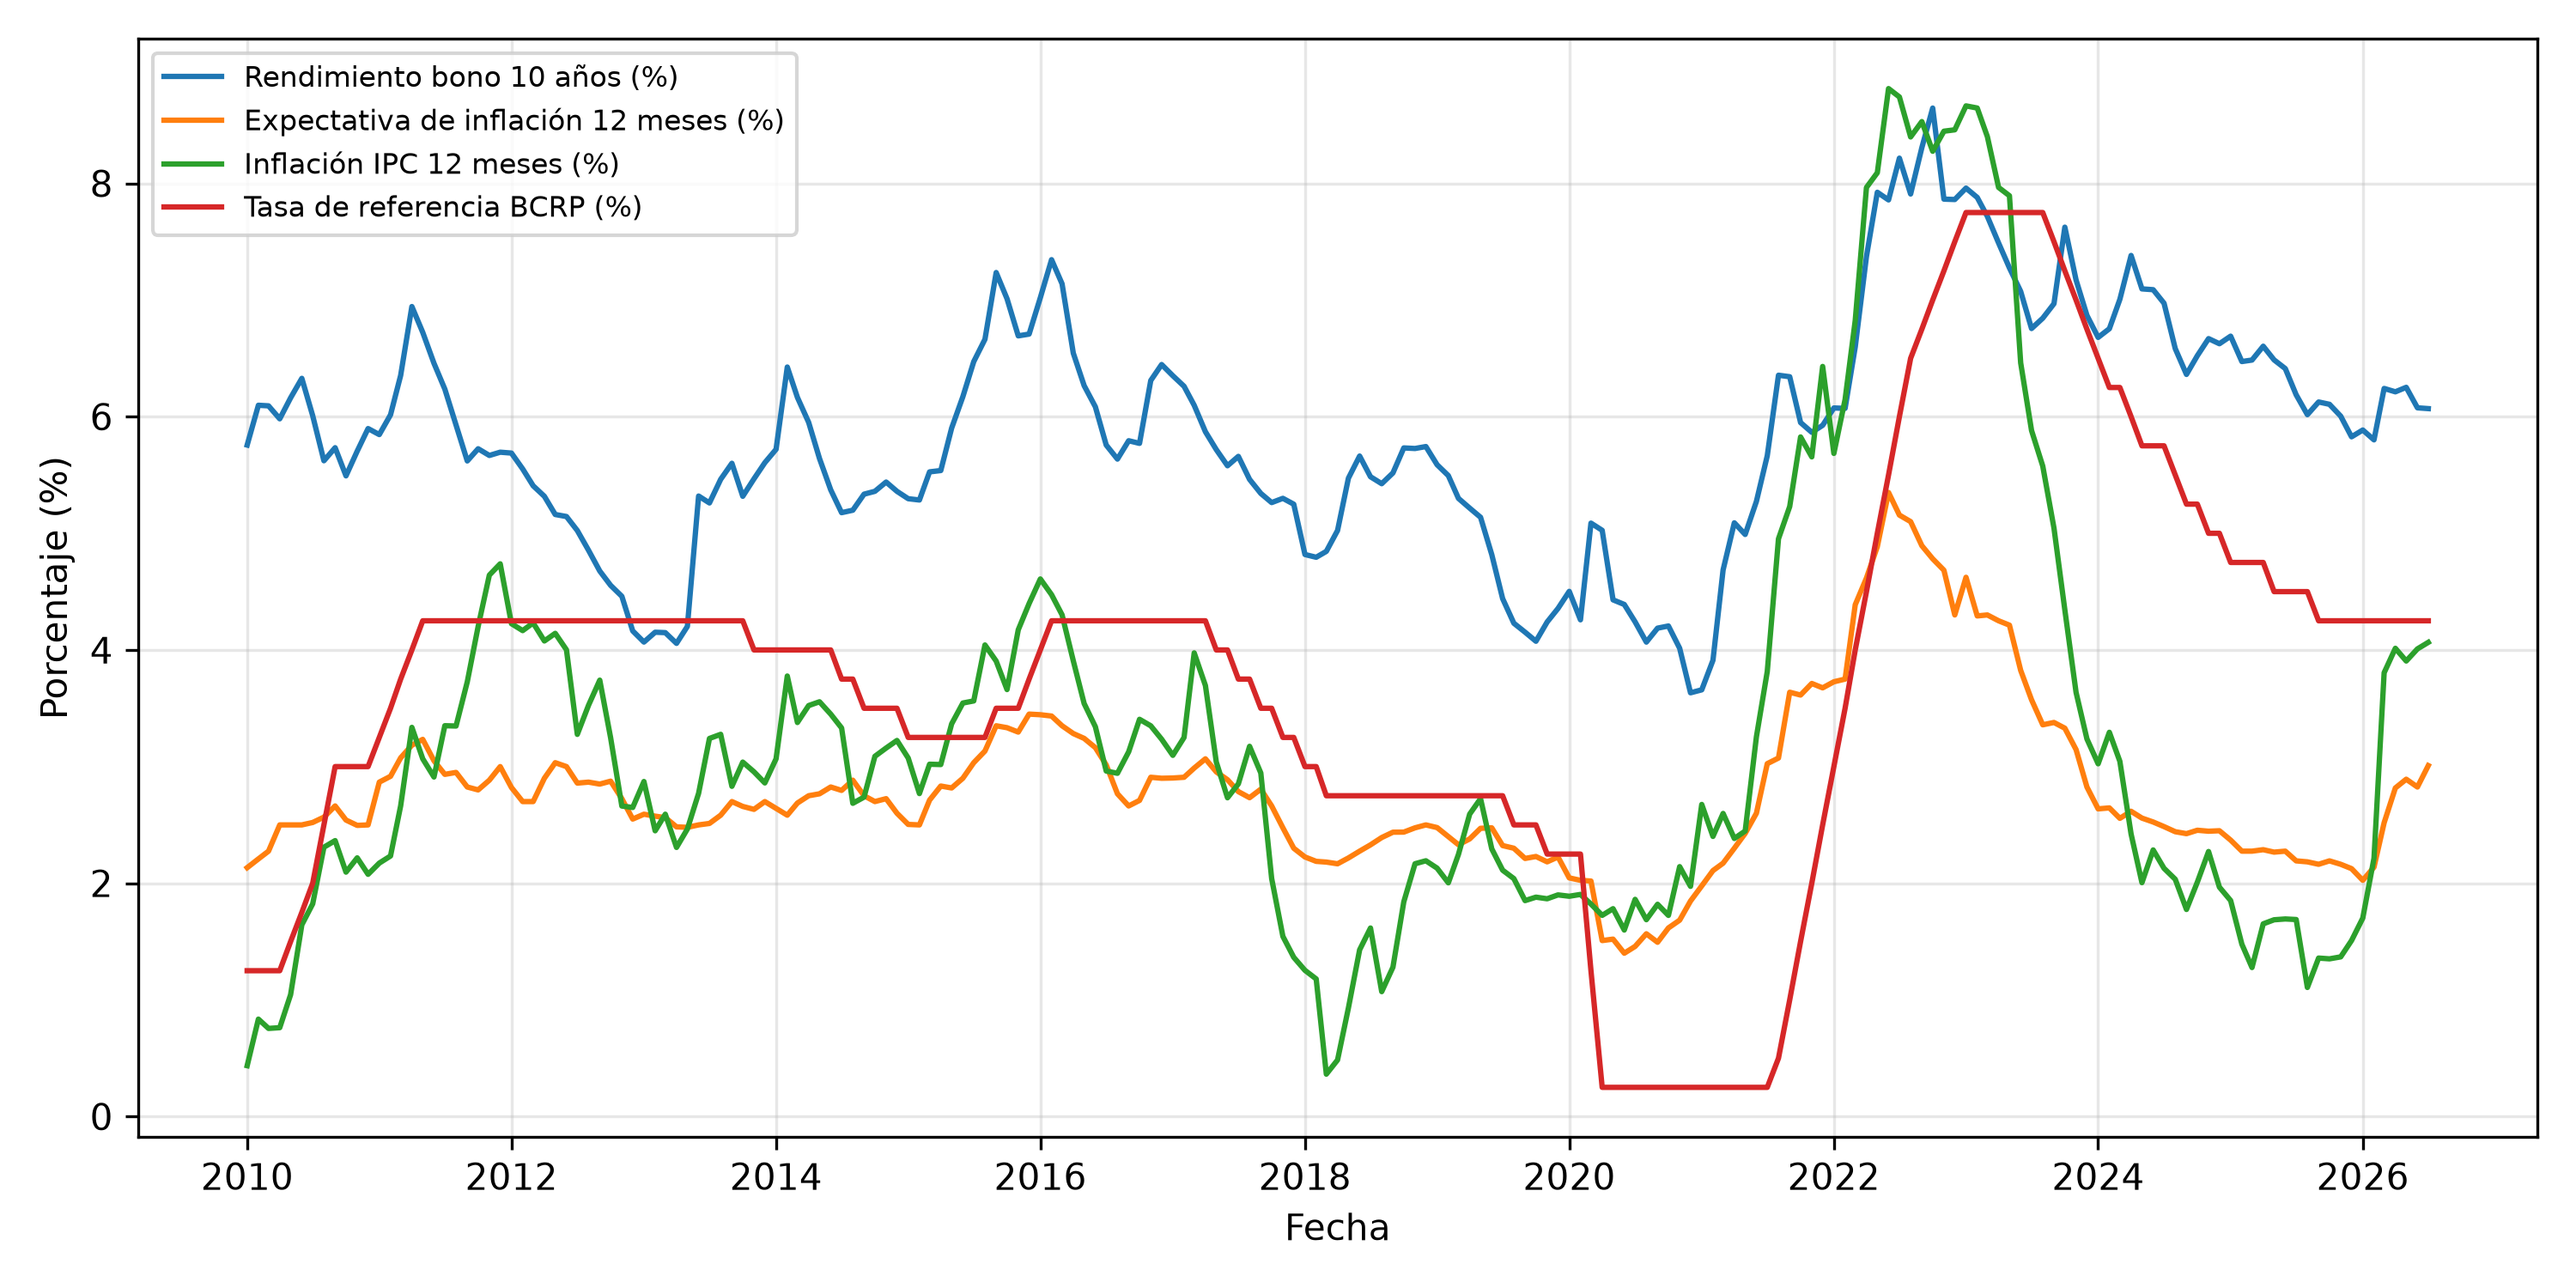
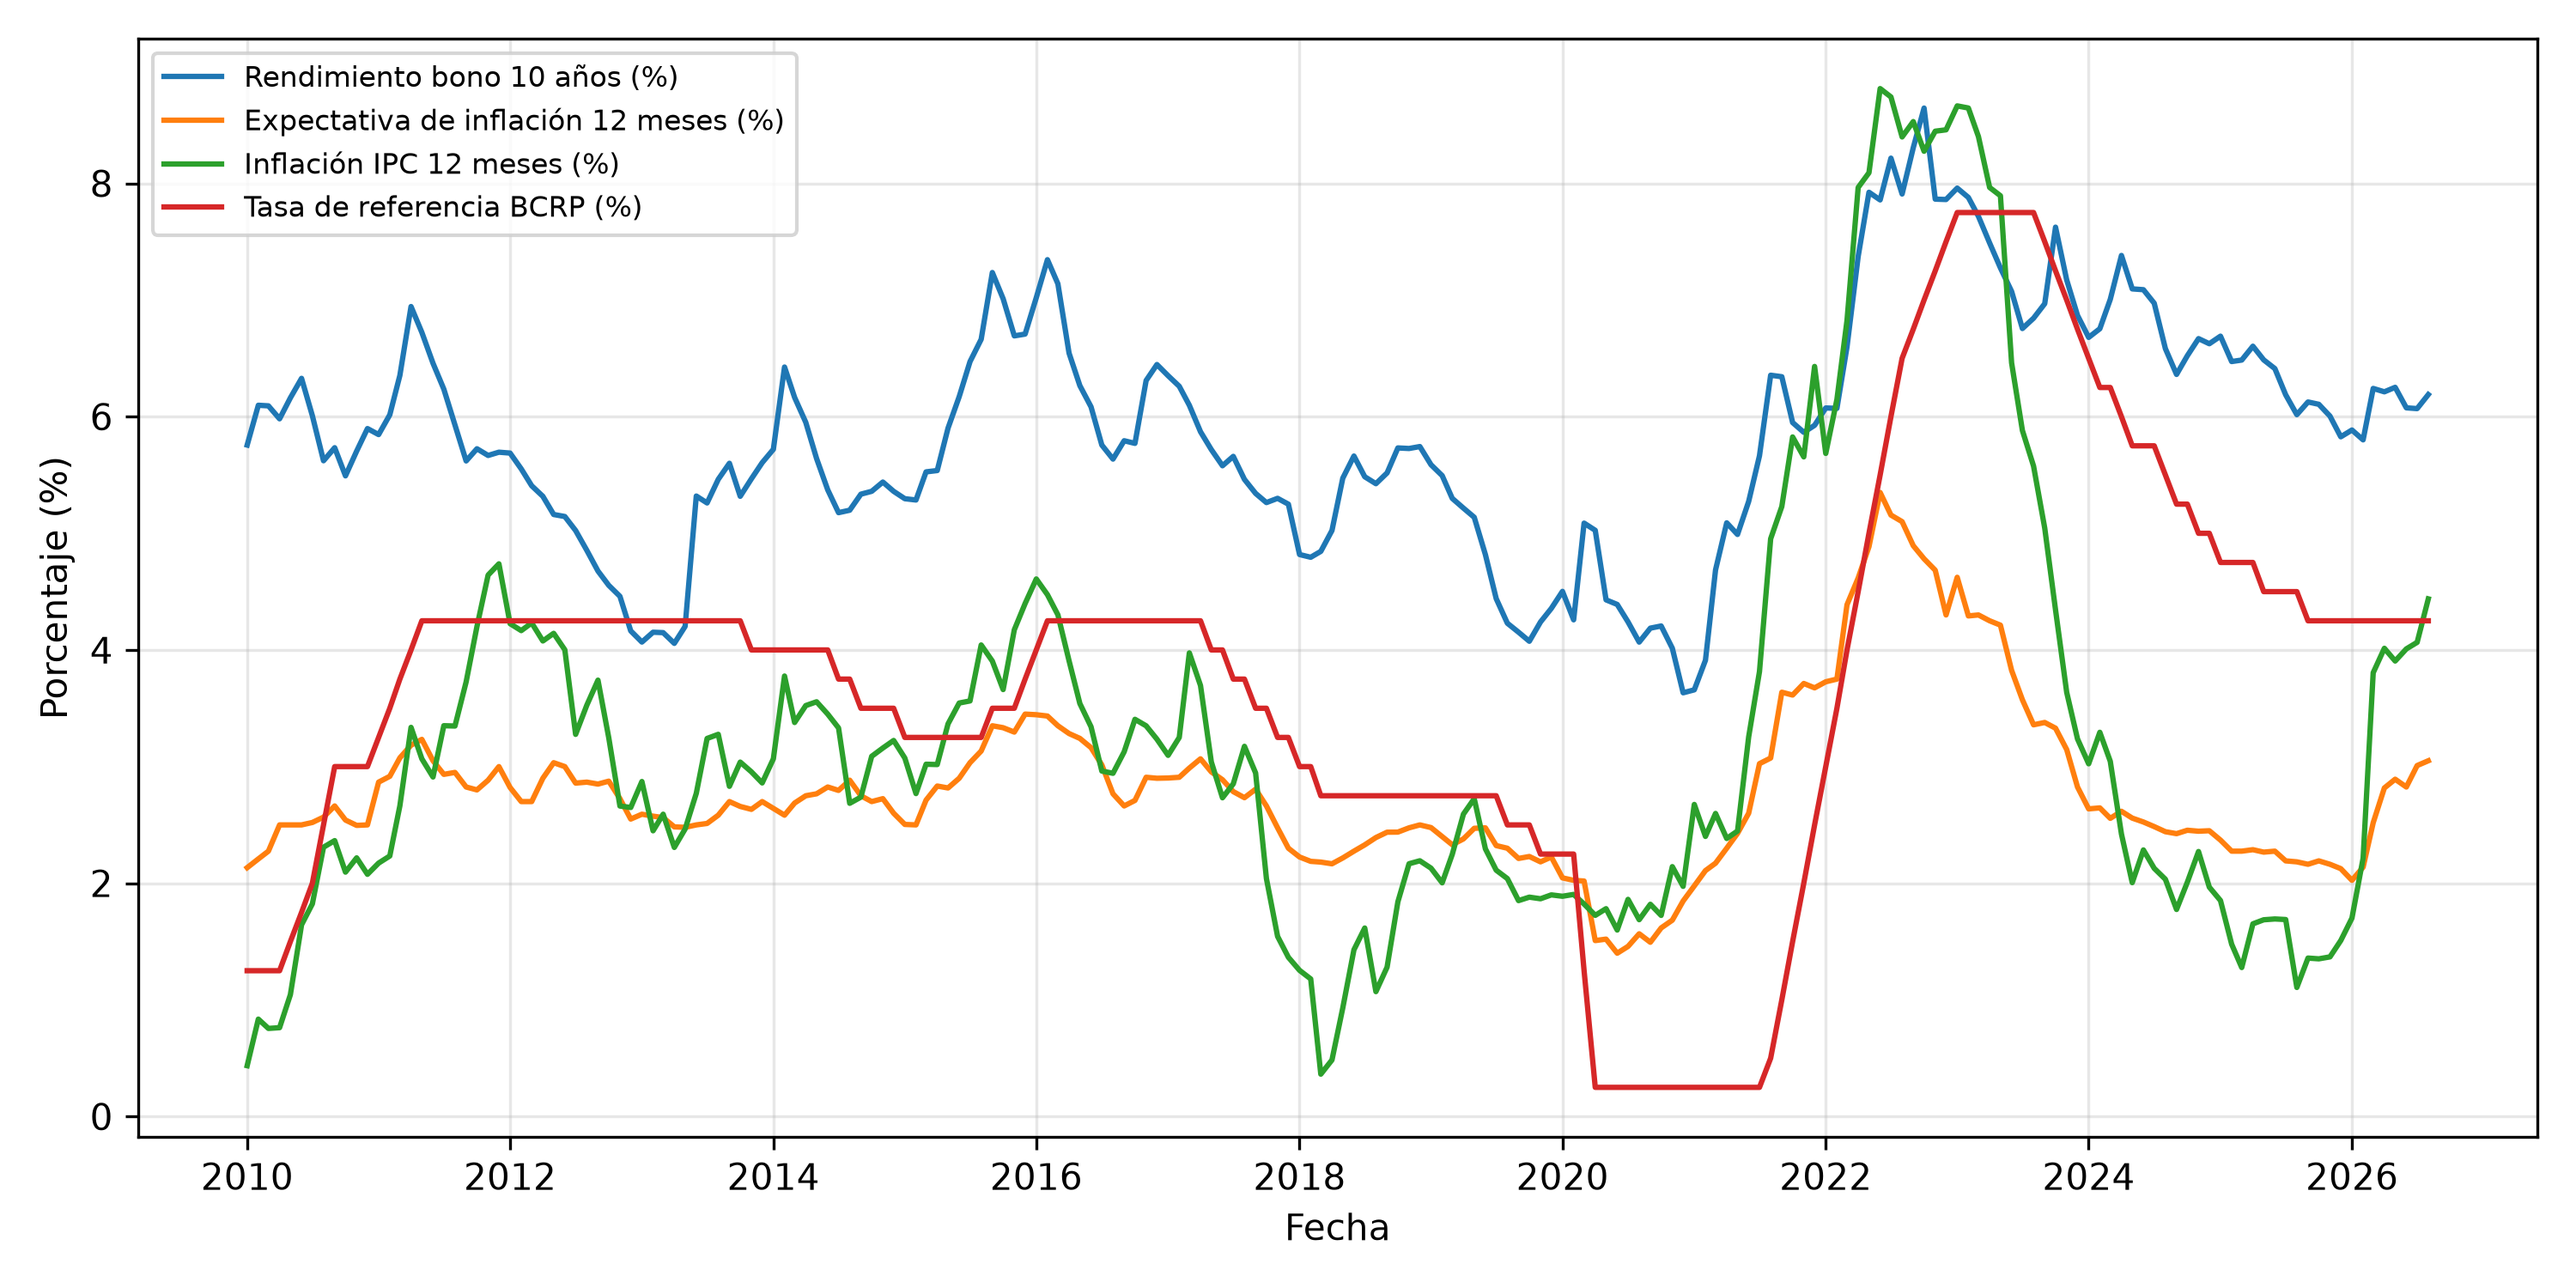
Amplía el corte a agosto de 2026 (800 observaciones)

diff --git a/codigo/01_extraccion_api.py b/codigo/01_extraccion_api.py
@@ -1,7 +1,7 @@
 # Nombre: Andrea Nicolle Sinche De La Cruz
 # Código de matrícula: 2024200529I
 # Tema 40: Bonos nominales frente a bonos indexados (VAC): expectativas de inflación implícitas
-# Fecha de extracción: 24/09/2026
+# Fecha de extracción: 28/09/2026
 
 """
 01_extraccion_api.py
@@ -21,7 +21,7 @@ from pathlib import Path
 
 # ------------- PARÁMETROS CONGELADOS (si se cambian, actualizar el README) -------------
 FECHA_INICIO = "2010-1"   # enero de 2010
-FECHA_CORTE = "2026-7"    # julio de 2026: último mes publicado para las 4 series al 24/09/2026
+FECHA_CORTE = "2026-8"    # agosto de 2026: último mes publicado para las 4 series al 28/09/2026
 CODIGO_MATRICULA = "2024200529I"
 
 # Variables del estudio: nombre de la variable -> código de la serie en BCRPData

diff --git a/codigo/03_limpieza_datos.py b/codigo/03_limpieza_datos.py
@@ -1,7 +1,7 @@
 # Nombre: Andrea Nicolle Sinche De La Cruz
 # Código de matrícula: 2024200529I
 # Tema 40: Bonos nominales frente a bonos indexados (VAC): expectativas de inflación implícitas
-# Fecha de extracción: 24/09/2026
+# Fecha de extracción: 28/09/2026
 
 """
 03_limpieza_datos.py

diff --git a/codigo/04_analisis.py b/codigo/04_analisis.py
@@ -1,7 +1,7 @@
 # Nombre: Andrea Nicolle Sinche De La Cruz
 # Código de matrícula: 2024200529I
 # Tema 40: Bonos nominales frente a bonos indexados (VAC): expectativas de inflación implícitas
-# Fecha de extracción: 24/09/2026
+# Fecha de extracción: 28/09/2026
 
 """
 04_analisis.py

diff --git a/README.md b/README.md
@@ -7,7 +7,7 @@
 
 **Tema 40:** Bonos nominales frente a bonos indexados (VAC): expectativas de inflación implícitas.
 
-**Objetivo empírico:** medir cuánto de la inflación esperada se incorpora en el rendimiento de los bonos soberanos nominales en soles (efecto Fisher), Perú, enero 2010 – julio 2026.
+**Objetivo empírico:** medir cuánto de la inflación esperada se incorpora en el rendimiento de los bonos soberanos nominales en soles (efecto Fisher), Perú, enero 2010 – agosto 2026.
 
 ---
 
@@ -30,9 +30,9 @@ Los bonos VAC no se usaron por falta de datos y por el bloqueo de la fuente alte
 ## 2. Parámetros congelados
 
 - `FECHA_INICIO = "2010-1"` (enero de 2010)
-- `FECHA_CORTE = "2026-7"` (julio de 2026)
-- Fecha y hora de la extracción original: 24/09/2026, 01:33–01:34 (ver `log_ejecucion.txt`)
-- Observaciones: **199 meses** por variable, sin datos faltantes.
+- `FECHA_CORTE = "2026-8"` (agosto de 2026)
+- Extracción vigente: 28/09/2026, 20:17 (ver `log_ejecucion.txt`). La primera versión (24/09/2026) llegaba a julio de 2026; el 28/09/2026 se amplió el corte a agosto de 2026 para alcanzar el mínimo de 800 observaciones. El log conserva también una ejecución de prueba de ese día (20:15, periodo 2009-1 a 2026-7) que no se usó.
+- Observaciones: **200 meses × 4 variables = 800 observaciones**, sin datos faltantes.
 
 ## 3. Estructura de la carpeta
 
@@ -85,7 +85,7 @@ py codigo/04_analisis.py
 Hash SHA-256 de `datos_procesados/datos_procesados_2024200529I.csv` (entregado):
 
 ```
[2 lines of base64/hex data omitted]
 ```
 
 Este hash corresponde al archivo entregado. BCRPData puede revisar sus series después de la fecha de corte; si una reejecución produce otro hash, la fecha y hora de la extracción original constan en `log_ejecucion.txt`.

diff --git a/diccionario_variables.md b/diccionario_variables.md
@@ -1,10 +1,10 @@
 # Diccionario de variables
 
-Archivo: `datos_procesados/datos_procesados_2024200529I.csv` — 199 filas (enero 2010 – julio 2026), 6 columnas.
+Archivo: `datos_procesados/datos_procesados_2024200529I.csv` — 200 filas (enero 2010 – agosto 2026); 4 variables descargadas × 200 = 800 observaciones, 6 columnas.
 Autora: Andrea Nicolle Sinche De La Cruz (2024200529I) — Tema 40.
 
 Endpoint de todas las series descargadas:
-`https://estadisticas.bcrp.gob.pe/estadisticas/series/api/{código}/json/2010-1/2026-7/esp`
+`https://estadisticas.bcrp.gob.pe/estadisticas/series/api/{código}/json/2010-1/2026-8/esp`
 
 | Variable | Definición | Unidad de medida | Frecuencia | Fuente exacta | Código / endpoint |
 |---|---|---|---|---|---|
@@ -15,4 +15,4 @@ Endpoint de todas las series descargadas:
 | `tasa_referencia` | Tasa de interés de referencia de la política monetaria del BCRP | Porcentaje anual (%) | Mensual | BCRP, BCRPData — Tasas de interés del Banco Central de Reserva | PD04722MM |
 | `tasa_real_exante` | Tasa real ex ante por la ecuación de Fisher: `rend_bono10a − expect_infl_12m` | Puntos porcentuales | Mensual | Calculada en `03_limpieza_datos.py` | — |
 
-Fecha de consulta: 24/09/2026.
+Fecha de consulta: 28/09/2026.
